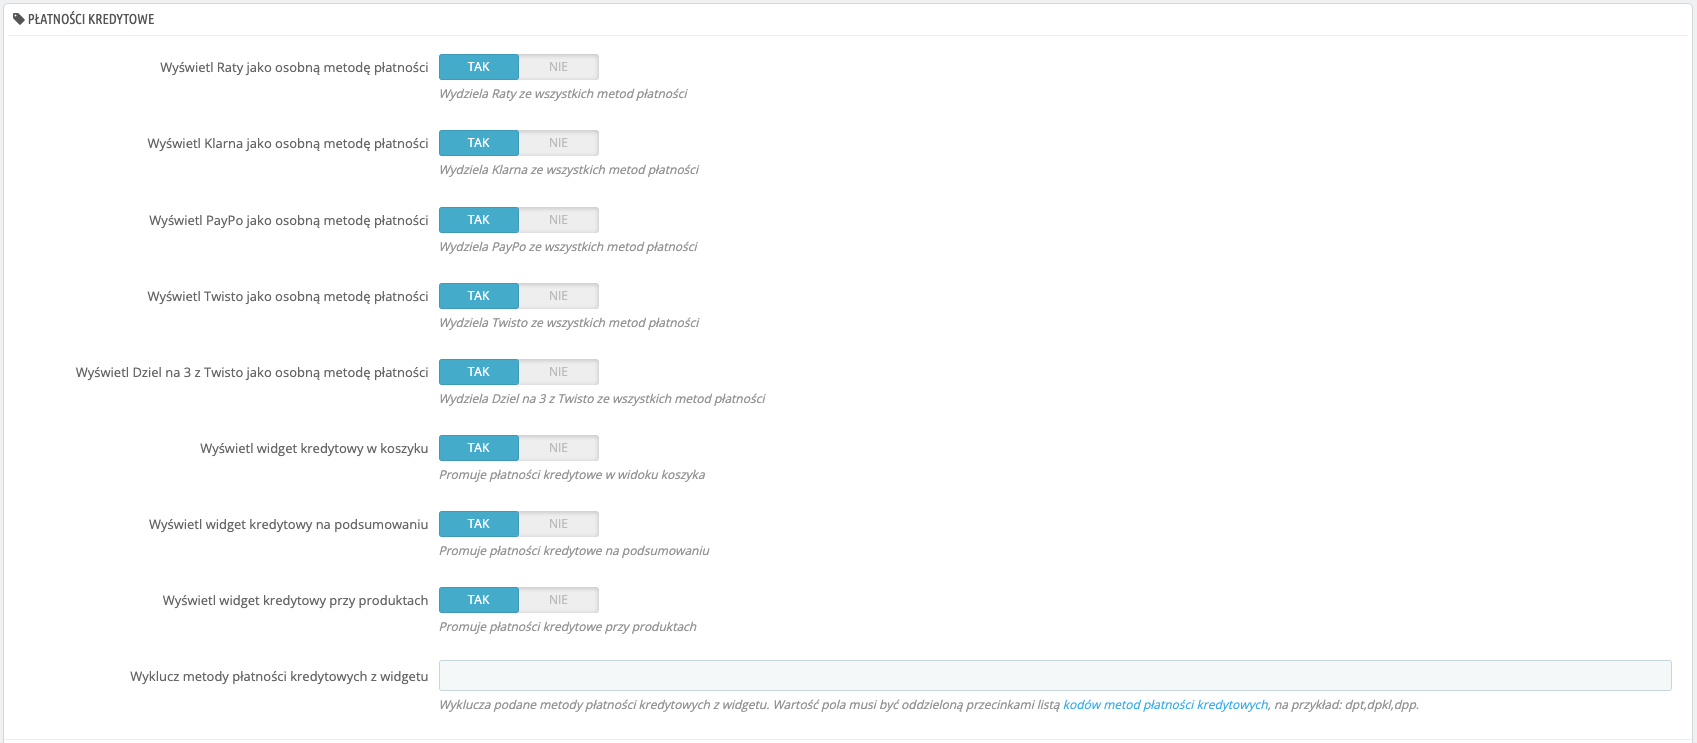
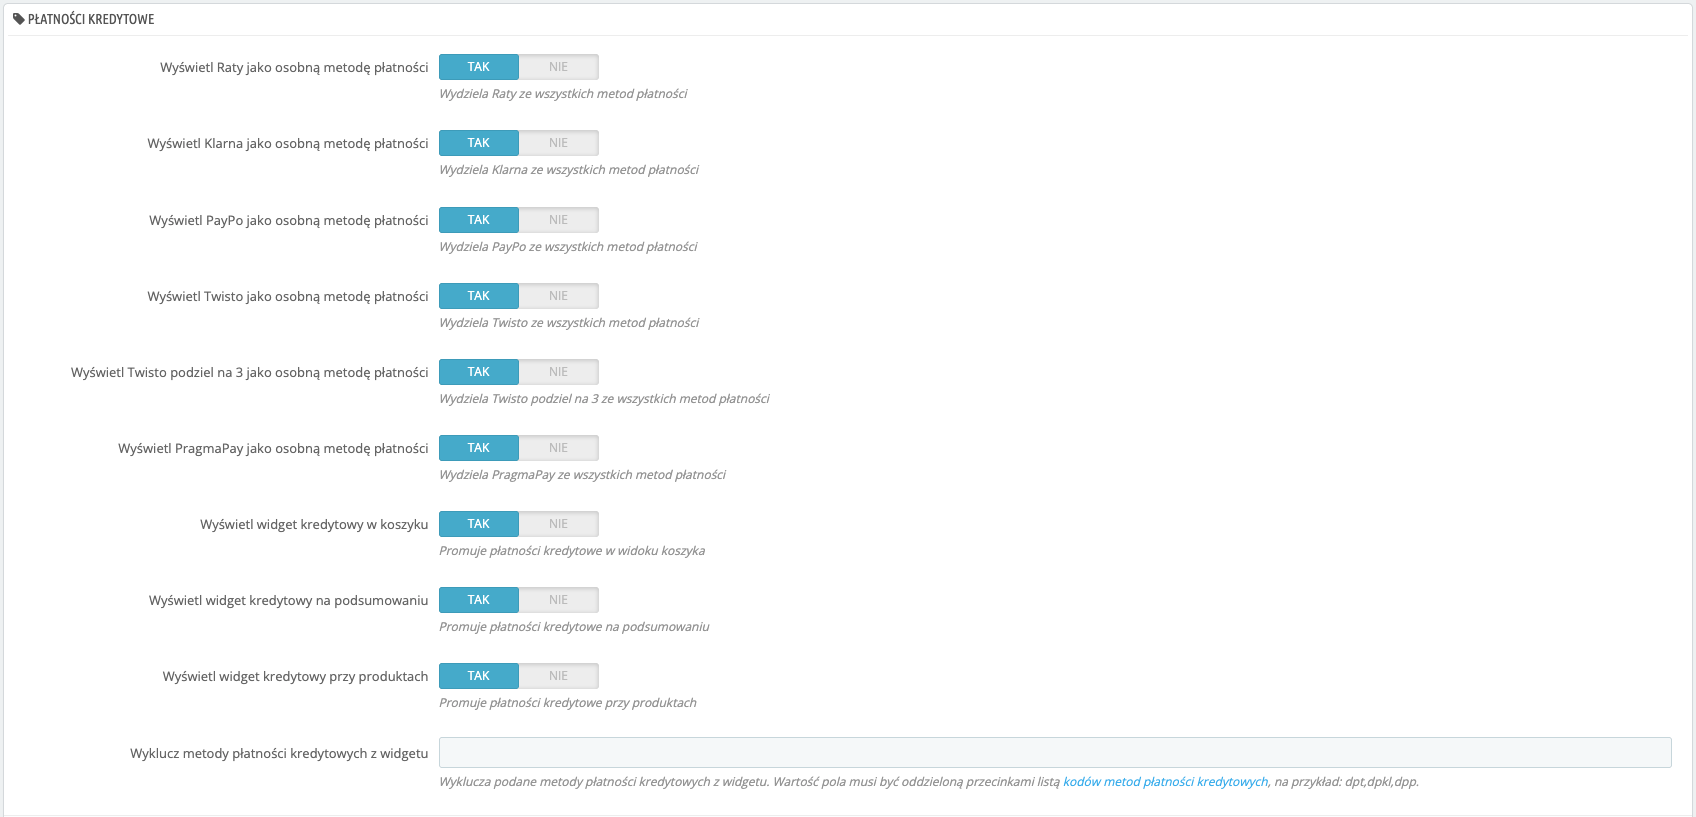
Add support and an ability to display PragmaPay as a separate payment method.

diff --git a/payu/css/payu.css b/payu/css/payu.css
@@ -68,6 +68,19 @@ p.payment_module a.payu_twisto_slice {
     padding: 33px 40px 34px 115px;
 }
 
+p.payment_module a.payu_pragma_pay {
+    background: url('../img/payu_pragma_pay.svg') 15px 33px no-repeat #fbfbfb;
+}
+
+p.payment_module a.payu_pragma_pay {
+    padding: 33px 40px 34px 145px;
+}
+
+p.payment_module span.payu_payment_module_badge {
+    font-weight: normal;
+    font-size: 80%;
+}
+
 p.payment_module a.payu_installment {
     background: url('../img/payu_installment.svg') 15px 33px no-repeat #fbfbfb;
 }

diff --git a/payu/payu.php b/payu/payu.php
@@ -40,7 +40,7 @@ class PayU extends PaymentModule
         $this->name = 'payu';
         $this->displayName = 'PayU';
         $this->tab = 'payments_gateways';
-        $this->version = '3.3.2';
+        $this->version = '3.3.3';
         $this->author = 'PayU';
         $this->need_instance = 1;
         $this->bootstrap = true;
@@ -100,6 +100,7 @@ class PayU extends PaymentModule
             Configuration::updateValue('PAYU_PROMOTE_CREDIT_PRODUCT', 1) &&
             Configuration::updateValue('PAYU_SEPARATE_PAY_LATER_TWISTO', 0) &&
             Configuration::updateValue('PAYU_SEPARATE_TWISTO_SLICE', 0) &&
+            Configuration::updateValue('PAYU_SEPARATE_PRAGMA_PAY', 0) &&
             Configuration::updateValue('PAYU_SEPARATE_PAY_LATER_KLARNA', 0) &&
             Configuration::updateValue('PAYU_SEPARATE_PAY_LATER_PAYPO', 0) &&
             Configuration::updateValue('PAYU_SEPARATE_BLIK_PAYMENT', 0) &&
@@ -138,6 +139,7 @@ class PayU extends PaymentModule
             !Configuration::deleteByName('PAYU_PROMOTE_CREDIT_PRODUCT') ||
             !Configuration::deleteByName('PAYU_SEPARATE_PAY_LATER_TWISTO') ||
             !Configuration::deleteByName('PAYU_SEPARATE_TWISTO_SLICE') ||
+            !Configuration::deleteByName('PAYU_SEPARATE_PRAGMA_PAY') ||
             !Configuration::deleteByName('PAYU_SEPARATE_PAY_LATER_KLARNA') ||
             !Configuration::deleteByName('PAYU_SEPARATE_PAY_LATER_PAYPO') ||
             !Configuration::deleteByName('PAYU_SEPARATE_BLIK_PAYMENT') ||
@@ -211,6 +213,7 @@ class PayU extends PaymentModule
                 !Configuration::updateValue('PAYU_PROMOTE_CREDIT_PRODUCT', (Tools::getValue('PAYU_PROMOTE_CREDIT_PRODUCT') ? 1 : 0)) ||
                 !Configuration::updateValue('PAYU_SEPARATE_PAY_LATER_TWISTO', (Tools::getValue('PAYU_SEPARATE_PAY_LATER_TWISTO') ? 1 : 0)) ||
                 !Configuration::updateValue('PAYU_SEPARATE_TWISTO_SLICE', (Tools::getValue('PAYU_SEPARATE_TWISTO_SLICE') ? 1 : 0)) ||
+                !Configuration::updateValue('PAYU_SEPARATE_PRAGMA_PAY', (Tools::getValue('PAYU_SEPARATE_PRAGMA_PAY') ? 1 : 0)) ||
                 !Configuration::updateValue('PAYU_SEPARATE_PAY_LATER_KLARNA', (Tools::getValue('PAYU_SEPARATE_PAY_LATER_KLARNA') ? 1 : 0)) ||
                 !Configuration::updateValue('PAYU_SEPARATE_PAY_LATER_PAYPO', (Tools::getValue('PAYU_SEPARATE_PAY_LATER_PAYPO') ? 1 : 0)) ||
                 !Configuration::updateValue('PAYU_PAYMENT_METHODS_GRID', (Tools::getValue('PAYU_PAYMENT_METHODS_GRID') ? 1 : 0)) ||
@@ -476,6 +479,24 @@ class PayU extends PaymentModule
                                 'label' => $this->l('Disabled')
                             ]
                         ],
+                    ],
+                    [
+                        'type' => 'switch',
+                        'label' => $this->l('Separate PragmaPay'),
+                        'desc' => $this->l('Shows separate PragmaPay payment method'),
+                        'name' => 'PAYU_SEPARATE_PRAGMA_PAY',
+                        'values' => [
+                            [
+                                'id' => 'active_on',
+                                'value' => 1,
+                                'label' => $this->l('Enabled')
+                            ],
+                            [
+                                'id' => 'active_off',
+                                'value' => 0,
+                                'label' => $this->l('Disabled')
+                            ]
+                        ],
                     ]
                 ],
                     $this->is17() ? [
@@ -538,10 +559,8 @@ class PayU extends PaymentModule
                         [
                             'type' => 'text',
                             'label' => $this->l('Exclude credit payment methods from widget'),
-                            'desc' => sprintf($this->l('Excludes the given credit payment methods from the credit payment widget. '
-                                . 'The value must be a comma-separated list of %s, for example: dpt,dpkl,dpp.'),
-                                '<a href="https://developers.payu.com/europe/pl/docs/get-started/integration-overview/references/#installments-and-pay-later" target="_blank" rel="nofollow">'
-                                . $this->l('credit payment method codes') . '</a>'),
+                            'desc' => $this->l('Excludes the given credit payment methods from the credit payment widget. The value must be a comma-separated list of') . ' <a href="https://developers.payu.com/europe/pl/docs/get-started/integration-overview/references/#installments-and-pay-later" target="_blank" rel="nofollow">'
+                                . $this->l('credit payment method codes') . '</a>, ' . $this->l('for example') . ': dpt,dpkl,dpp.',
                             'name' => 'PAYU_CREDIT_WIDGET_EXCLUDED_PAYTYPES'
                         ]
                     ]),
@@ -705,6 +724,7 @@ class PayU extends PaymentModule
             'PAYU_PROMOTE_CREDIT_PRODUCT' => Configuration::get('PAYU_PROMOTE_CREDIT_PRODUCT'),
             'PAYU_SEPARATE_PAY_LATER_TWISTO' => Configuration::get('PAYU_SEPARATE_PAY_LATER_TWISTO'),
             'PAYU_SEPARATE_TWISTO_SLICE' => Configuration::get('PAYU_SEPARATE_TWISTO_SLICE'),
+            'PAYU_SEPARATE_PRAGMA_PAY' => Configuration::get('PAYU_SEPARATE_PRAGMA_PAY'),
             'PAYU_SEPARATE_PAY_LATER_KLARNA' => Configuration::get('PAYU_SEPARATE_PAY_LATER_KLARNA'),
             'PAYU_SEPARATE_PAY_LATER_PAYPO' => Configuration::get('PAYU_SEPARATE_PAY_LATER_PAYPO'),
             'PAYU_PAYMENT_METHODS_GRID' => Configuration::get('PAYU_PAYMENT_METHODS_GRID'),
@@ -997,6 +1017,30 @@ class PayU extends PaymentModule
             $creditPaymentOptions[] = $twistoSliceOption;
         }
 
+        if ($this->isAvailableSeparatePragmaPay($totalPrice)) {
+            if ($retry16) {
+                $pragmaPayOption = [
+                    'CallToActionText' => $this->l('Pay with PragmaPay'),
+                    'AdditionalInformation' => $this->fetchTemplate('checkout_pragma_pay.tpl'),
+                    'ModuleName' => $this->name,
+                    'Logo' => $this->getPayuLogo('payu_pragma_pay.svg')
+                ];
+            } else {
+                $pragmaPayOption = new PrestaShop\PrestaShop\Core\Payment\PaymentOption();
+                $pragmaPayOption
+                    ->setCallToActionText($this->l('Pay with PragmaPay'))
+                    ->setModuleName($this->name)
+                    ->setLogo($this->getPayuLogo('payu_pragma_pay.svg'))
+                    ->setAdditionalInformation($this->fetchTemplate('checkout_pragma_pay.tpl'))
+                    ->setAction($this->context->link->getModuleLink($this->name, 'payment',
+                        [
+                            'payMethod' => CreditPaymentMethod::PRAGMA_PAY
+                        ]
+                    ));
+            }
+            $creditPaymentOptions[] = $pragmaPayOption;
+        }
+
         if ($this->isAvailableSeparateInstallments($totalPrice)) {
             $this->context->smarty->assign([
                 'total_price' => $totalPrice,
@@ -1073,6 +1117,7 @@ class PayU extends PaymentModule
             'separateBlik' => Configuration::get('PAYU_SEPARATE_BLIK_PAYMENT'),
             'separateInstallments' => Configuration::get('PAYU_SEPARATE_INSTALLMENTS'),
             'separateTwistoSlice' => Configuration::get('PAYU_SEPARATE_TWISTO_SLICE'),
+            'separatePragmaPay' => Configuration::get('PAYU_SEPARATE_PRAGMA_PAY'),
             'separateCard' => Configuration::get('PAYU_SEPARATE_CARD_PAYMENT'),
             'posId' => OpenPayU_Configuration::getMerchantPosId(),
             'lang' => Language::getIsoById($this->context->language->id),
@@ -1258,8 +1303,12 @@ class PayU extends PaymentModule
             'creditPayLaterTwistoSliceActionUrl' => $this->context->link->getModuleLink('payu', 'payment', [
                 'payMethod' => CreditPaymentMethod::INSTALLMENT_TWISTO_SLICE
             ]),
+            'creditPragmaPayActionUrl' => $this->context->link->getModuleLink('payu', 'payment', [
+                'payMethod' => CreditPaymentMethod::PRAGMA_PAY
+            ]),
             'separateInstallments' => $this->isAvailableSeparateInstallments($totalPrice),
             'separateTwistoSlice' => $this->isAvailableSeparateTwistoSlice($totalPrice),
+            'separatePragmaPay' => $this->isAvailableSeparatePragmaPay($totalPrice),
         ]);
 
         if ($this->isAnyCreditPaytypeEnabled()) {
@@ -2845,6 +2894,17 @@ class PayU extends PaymentModule
     {
         return Configuration::get('PAYU_SEPARATE_TWISTO_SLICE') === '1'
             && $this->isPaymentMethodAvailable(CreditPaymentMethod::INSTALLMENT_TWISTO_SLICE, $amount);
+    }
+
+    /**
+     * @param float $amount
+     *
+     * @return bool
+     */
+    private function isAvailableSeparatePragmaPay($amount)
+    {
+        return Configuration::get('PAYU_SEPARATE_PRAGMA_PAY') === '1'
+            && $this->isPaymentMethodAvailable(CreditPaymentMethod::PRAGMA_PAY, $amount);
     }
 
     /**

diff --git a/payu/tools/PayMethods/CreditPaymentMethod.php b/payu/tools/PayMethods/CreditPaymentMethod.php
@@ -10,6 +10,7 @@ class CreditPaymentMethod {
     const INSTALLMENT_TWISTO_SLICE = 'dpts';
     const DELAYED_PAYMENT_PAYPO_PLN = 'dpp';
     const DELAYED_PAYMENT_PAYPO_RON = 'dppron';
+    const PRAGMA_PAY = 'ppf';
 
     const DELAYED_PAYMENT_TWISTO_GROUP = [
         self::DELAYED_PAYMENT_TWISTO_PLN,
@@ -38,7 +39,8 @@ class CreditPaymentMethod {
             self::DELAYED_PAYMENT_TWISTO_CZK,
             self::INSTALLMENT_TWISTO_SLICE,
             self::DELAYED_PAYMENT_PAYPO_PLN,
-            self::DELAYED_PAYMENT_PAYPO_RON
+            self::DELAYED_PAYMENT_PAYPO_RON,
+            self::PRAGMA_PAY
         ];
     }
 }

diff --git a/README.md b/README.md
@@ -28,27 +28,28 @@ Moduł płatności PayU dodaje do PrestaShop opcję płatności PayU i pozwala n
 
 Plugin w wersji 3.x wspiera PrestaShop w wersji 1.6 i 1.7
 
-| Cecha                                                                          |   PrestaShop 1.6   | PrestaShop 1.7 / 8 /9 |
-|--------------------------------------------------------------------------------|:------------------:|:---------------------:|
-| Utworzenie płatności (wraz z rabatami)                                         | :white_check_mark: |  :white_check_mark:   |
-| Odebranie lub odrzucenie płatności (w przypadku wyłączonego autoodbioru)       | :white_check_mark: |  :white_check_mark:   |
-| Utworzenie zwrotu (pełnego lub częściowego)                                    | :white_check_mark: |  :white_check_mark:   |
-| Wyświetlenie metod płatności i wybranie metody na stronie składania zamówienia | :white_check_mark: |  :white_check_mark:   |
-| Płatność kartą jako osobna metoda płatności                                    | :white_check_mark: |  :white_check_mark:   |
-| Płatność kartą jako widżet                                                     | :white_check_mark: |  :white_check_mark:   |
-| Płatność Blik jako osobna metoda płatności                                     | :white_check_mark: |  :white_check_mark:   |
-| Ponowienie płatności                                                           | :white_check_mark: |  :white_check_mark:   |
-| Wielowalutowość                                                                | :white_check_mark: |  :white_check_mark:   |
-| Kolejność metod płatności                                                      | :white_check_mark: |  :white_check_mark:   |
-| Płatność [PayU Raty][ext10] jako osobna metoda płatności                       | :white_check_mark: |  :white_check_mark:   |
-| Płatność Klarna jako osobna metoda płatności                                   | :white_check_mark: |  :white_check_mark:   |
-| Płatność PayPo jako osobna metoda płatności                                    | :white_check_mark: |  :white_check_mark:   |
-| Płatność Twisto jako osobna metoda płatności                                   | :white_check_mark: |  :white_check_mark:   |
-| Płatność Twisto podziel na 3 jako osobna metoda płatności                      | :white_check_mark: |  :white_check_mark:   |
-| Prezentacja widgetu kredytowego przy produkcie i listingu                      | :white_check_mark: |  :white_check_mark:   |
-| Prezentacja widgetu kredytowego na podsumowaniu                                | :white_check_mark: |  :white_check_mark:   |
-| Prezentacja widgetu kredytowego w koszyku                                      |        :x:         |  :white_check_mark:   |
-| Wykluczenie metod płatności kredytowych z widgetu                              | :white_check_mark: |  :white_check_mark:   |
+| Cecha                                                                          |   PrestaShop 1.6   | PrestaShop 1.7 / 8 / 9 |
+|--------------------------------------------------------------------------------|:------------------:|:----------------------:|
+| Utworzenie płatności (wraz z rabatami)                                         | :white_check_mark: |   :white_check_mark:   |
+| Odebranie lub odrzucenie płatności (w przypadku wyłączonego autoodbioru)       | :white_check_mark: |   :white_check_mark:   |
+| Utworzenie zwrotu (pełnego lub częściowego)                                    | :white_check_mark: |   :white_check_mark:   |
+| Wyświetlenie metod płatności i wybranie metody na stronie składania zamówienia | :white_check_mark: |   :white_check_mark:   |
+| Płatność kartą jako osobna metoda płatności                                    | :white_check_mark: |   :white_check_mark:   |
+| Płatność kartą jako widżet                                                     | :white_check_mark: |   :white_check_mark:   |
+| Płatność Blik jako osobna metoda płatności                                     | :white_check_mark: |   :white_check_mark:   |
+| Ponowienie płatności                                                           | :white_check_mark: |   :white_check_mark:   |
+| Wielowalutowość                                                                | :white_check_mark: |   :white_check_mark:   |
+| Kolejność metod płatności                                                      | :white_check_mark: |   :white_check_mark:   |
+| Płatność [PayU Raty][ext10] jako osobna metoda płatności                       | :white_check_mark: |   :white_check_mark:   |
+| Płatność Klarna jako osobna metoda płatności                                   | :white_check_mark: |   :white_check_mark:   |
+| Płatność PayPo jako osobna metoda płatności                                    | :white_check_mark: |   :white_check_mark:   |
+| Płatność Twisto jako osobna metoda płatności                                   | :white_check_mark: |   :white_check_mark:   |
+| Płatność Twisto podziel na 3 jako osobna metoda płatności                      | :white_check_mark: |   :white_check_mark:   |
+| Płatność PragmaPay jako osobna metoda płatności                                | :white_check_mark: |   :white_check_mark:   |
+| Prezentacja widgetu kredytowego przy produkcie i listingu                      | :white_check_mark: |   :white_check_mark:   |
+| Prezentacja widgetu kredytowego na podsumowaniu                                | :white_check_mark: |   :white_check_mark:   |
+| Prezentacja widgetu kredytowego w koszyku                                      |        :x:         |   :white_check_mark:   |
+| Wykluczenie metod płatności kredytowych z widgetu                              | :white_check_mark: |   :white_check_mark:   |
 
 Więcej informacji o cechach można znaleźć w rozdziale [Więcej o cechach](#więcej-o-cechach)
 
@@ -178,7 +179,7 @@ Ponowienie płatności umożliwia zakładanie wielu płatności w PayU do jedneg
 Plugin udostępnia opcje promowania [płatności ratalnych i odroczonych][ext7] (nazywanych również zamiennie "płatnościami kredytowymi") poprzez wydzielanie poszczególnych metod płatności na podsumowaniu oraz wyświetlanie widgetu kredytowego przy produktach, w koszyku czy na podsumowaniu. 
 Promowaniem płatości ratalnych i odroczonych można sterować w sekcji "Płatności kredytowe" panelu administracyjnego pluginu. Wydzielanie PayU Raty oraz wyświetlanie widgetu kredytowego są domyślnie włączone. Wsparcie dla konkretnych funkcjonalności przedstawione zostało w tabeli [Cechy i
  Kompatybilność](#cechy-i-kompatybilność).
- > Prezentacja metod płatności i widgetu zależna jest od dostępności bramek "ai", "dpt", "dpcz", "dpts", "dpkl", "dpklczk", "dpkleur", "dpklhuf", "dpp", "dppron" na danym punkcie płatności i sprawdzana
+ > Prezentacja metod płatności i widgetu zależna jest od dostępności bramek "ai", "dpt", "dpcz", "dpts", "dpkl", "dpklczk", "dpkleur", "dpklhuf", "dpp", "dppron", "ppf" na danym punkcie płatności i sprawdzana
  jest automatycznie przez plugin. Jeśli dana metoda płatności kredytowych nie została aktywowana na punkcie płatności, nie zostanie
  zaprezentowana na podsumowaniu lub widgecie pomimo włączonej opcji w pluginie.
 
@@ -195,6 +196,7 @@ Promowaniem płatości ratalnych i odroczonych można sterować w sekcji "Płatn
 |1.7| Wydzielenie PayPo jako metody płatności                | <img src="readme_images/credit-1-7-checkout-separate-paypo.png" width="100">        |
 |1.7| Wydzielenie Twisto jako metody płatności               | <img src="readme_images/credit-1-7-checkout-separate-twisto.png" width="100">       |
 |1.7| Wydzielenie Twisto podziel na 3 jako metody płatności  | <img src="readme_images/credit-1-7-checkout-separate-twisto-slice.png" width="100"> |
+|1.7| Wydzielenie PragmaPay jako metody płatności            | <img src="readme_images/credit-1-7-checkout-separate-pragma-pay.png" width="100">   |
 |1.6| Listing produktów                                      | <img src="readme_images/credit-1-6-listing.png" width="100">                        |
 |1.6| Karta produktu                                         | <img src="readme_images/credit-1-6-product.png" width="100">                        |
 

diff --git a/README.EN.md b/README.EN.md
@@ -44,6 +44,7 @@ Plugin version 3.x supports PrestaShop versions 1.6 and 1.7
 | PayPo payment as separate method                           | :white_check_mark: |   :white_check_mark:   |
 | Twisto payment as separate method                          | :white_check_mark: |   :white_check_mark:   |
 | Twisto Pay in 3 payment as separate method                 | :white_check_mark: |   :white_check_mark:   |
+| PragmaPay as separate method                               | :white_check_mark: |   :white_check_mark:   |
 | Present credit widget on product and listing page          | :white_check_mark: |   :white_check_mark:   |
 | Present credit widget in checkout view                     | :white_check_mark: |   :white_check_mark:   |
 | Present credit widget in cart view                         |        :x:         |   :white_check_mark:   |
@@ -176,7 +177,7 @@ Plugin provides a functionality of promoting [installments and Buy Now Pay Later
 Promoting installment and Buy Now Pay Later payment methods is configured in the "Credit payments" section of the plugin's configuration page. Separating PayU Installments and credit payments widget are enabled by default. 
 Support for given functionalities has been described in [Features](#features) section.
  > Presenting credit widgets is dependent on gateways availability for the given point of sale (POS).
- The plugin automatically checks whether "ai", "dpt", "dpcz", "dpts", "dpkl", "dpklczk", "dpkleur", "dpklhuf", "dpp", "dppron" gateways are enabled.
+ The plugin automatically checks whether "ai", "dpt", "dpcz", "dpts", "dpkl", "dpklczk", "dpkleur", "dpklhuf", "dpp", "dppron", "ppf" gateways are enabled.
  If a given credit payment method hasn't been enabled on the configured POS, it won't be presented in the checkout view or the credit payments widget even if it is enabled in the plugin's configuration.
 
 <img src="readme_images/credit-1-7-admin.png" width="400">
@@ -192,6 +193,7 @@ Support for given functionalities has been described in [Features](#features) se
 |1.7| Klarna payment as separate method          |<img src="readme_images/credit-1-7-checkout-separate-klarna.png" width="100">|
 |1.7| Twisto payment as separate method          |<img src="readme_images/credit-1-7-checkout-separate-twisto.png" width="100">|
 |1.7| Twisto Pay in 3 payment as separate method |<img src="readme_images/credit-1-7-checkout-separate-twisto-slice.png" width="100">|
+|1.7| PragmaPay payment as separate method       |<img src="readme_images/credit-1-7-checkout-separate-pragma-pay.png" width="100">|
 |1.6| Products listing                           |<img src="readme_images/credit-1-6-listing.png" width="100">|
 |1.6| Product page                               |<img src="readme_images/credit-1-6-product.png" width="100">|
 

diff --git a/CHANGELOG.md b/CHANGELOG.md
@@ -1,3 +1,6 @@
+## 3.3.3
+* Added support and an ability to display PragmaPay as a separate payment method
+
 ## 3.3.2
 * Added compatibility with Prestashop 9
 
